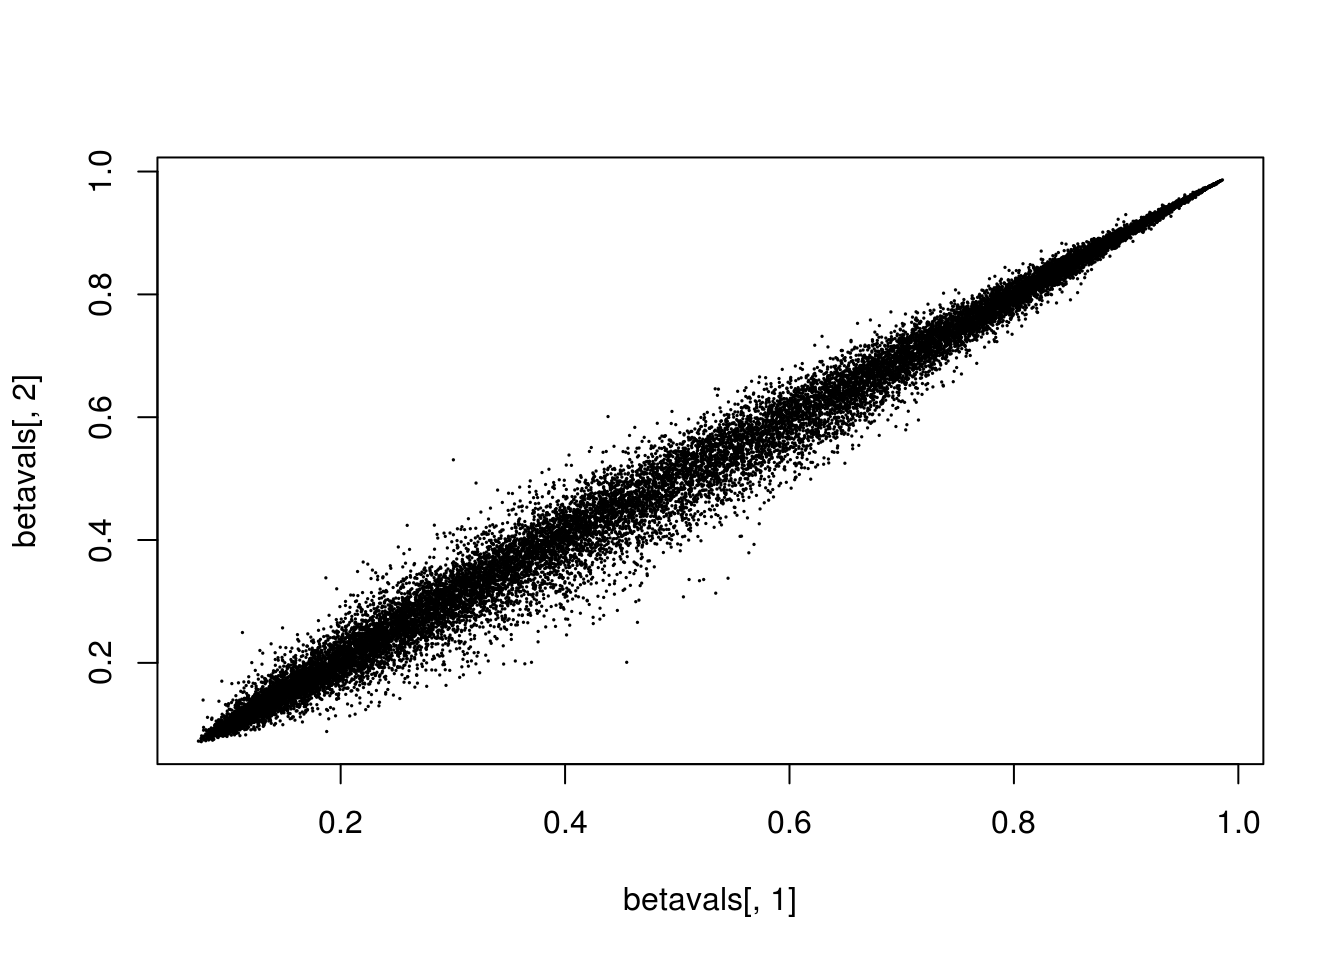
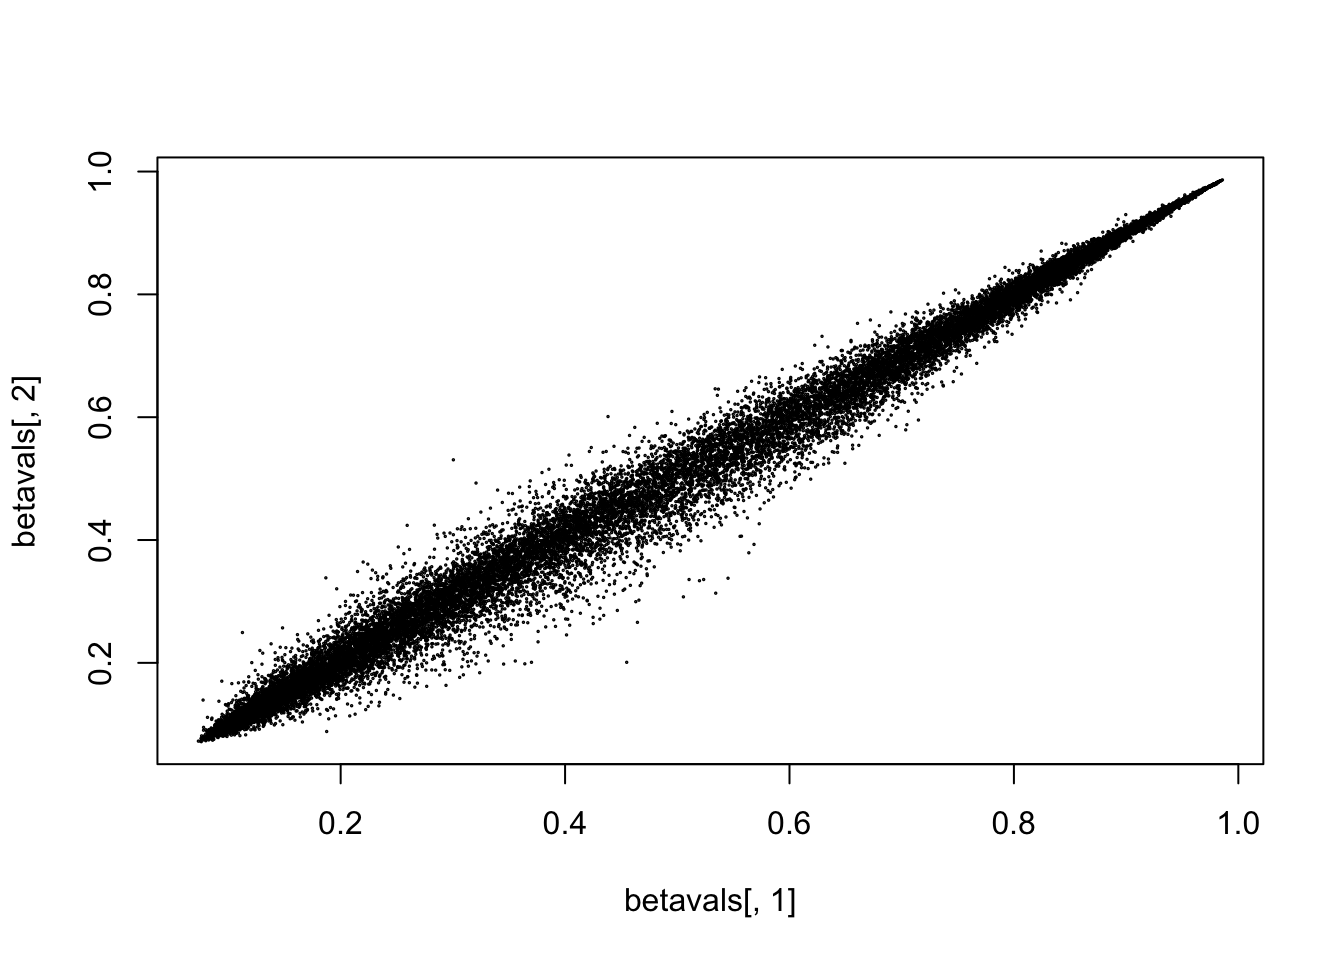
update starting kit

diff --git a/starting_kit.html b/starting_kit.html
@@ -10,7 +10,7 @@
 
 
 
-<meta name="date" content="2020-11-19" />
+<meta name="date" content="2020-11-25" />
 
 <title>Starting kit</title>
 
@@ -23,19 +23,8 @@
 <script src="site_libs/navigation-1.1/tabsets.js"></script>
 <link href="site_libs/highlightjs-9.12.0/textmate.css" rel="stylesheet" />
 <script src="site_libs/highlightjs-9.12.0/highlight.js"></script>
-<link href="site_libs/anchor-sections-1.0/anchor-sections.css" rel="stylesheet" />
-<script src="site_libs/anchor-sections-1.0/anchor-sections.js"></script>
 <link href="site_libs/font-awesome-5.1.0/css/all.css" rel="stylesheet" />
 <link href="site_libs/font-awesome-5.1.0/css/v4-shims.css" rel="stylesheet" />
-
-<style type="text/css">
-  code{white-space: pre-wrap;}
-  span.smallcaps{font-variant: small-caps;}
-  span.underline{text-decoration: underline;}
-  div.column{display: inline-block; vertical-align: top; width: 50%;}
-  div.hanging-indent{margin-left: 1.5em; text-indent: -1.5em;}
-  ul.task-list{list-style: none;}
-    </style>
 
 <style type="text/css">code{white-space: pre;}</style>
 <style type="text/css">
@@ -346,7 +335,7 @@ $(document).ready(function () {
 
 
 <h1 class="title toc-ignore">Starting kit</h1>
-<h4 class="date">2020-11-19</h4>
+<h4 class="date">2020-11-25</h4>
 
 </div>
 
@@ -359,7 +348,7 @@ $(document).ready(function () {
 <li><a href="#selection-of-13-reference-methods"><span class="toc-section-number">2.3</span> Selection of 13 reference methods</a></li>
 </ul></li>
 <li><a href="#evaluation-of-methods-performances"><span class="toc-section-number">3</span> Evaluation of methods performances</a><ul>
-<li><a href="#reference-datasets"><span class="toc-section-number">3.1</span> Reference datasets</a></li>
+<li><a href="#benchmark-datasets"><span class="toc-section-number">3.1</span> Benchmark datasets</a></li>
 <li><a href="#scoring-metrics"><span class="toc-section-number">3.2</span> Scoring metrics</a></li>
 <li><a href="#benchmark-leaderboard"><span class="toc-section-number">3.3</span> Benchmark leaderboard</a></li>
 </ul></li>
@@ -384,7 +373,7 @@ $(document).ready(function () {
 <p><img src="fig/tumor_heterogeneity.png" alt="Cancer heterogeneity illustration. Each tumor is a mix of different cell populations in various proportions." />.</p>
 <p>Each tumor is a mix of different cell populations in various proportions. Advanced microdissection techniques to isolate a population of interest from heterogeneous clinical tissue samples are not feasible in daily practice. An alternative is to rely on computational deconvolution methods that infer cell-type composition from mixed (=”bulk”) samples.</p>
 <p>This variable composition might be associated to difference in treatment response as well as distinct prognosis as shown by our team and others (Blum et al 2019, Nature Communication). It is therefore a high priority to describe as best as possible this “intra tumor” heterogeneity to better predict the more appropriate clinical care for each patient and go even further in personalized medicine.</p>
-<p><strong>The goal of the cometh web application</strong> is to quantify tumor heterogeneity within clinical cancer omic samples (how many cell types are present? In which proportion?).</p>
+<p><strong>The goal of the COMETH web application</strong> is to quantify tumor heterogeneity within clinical cancer omic samples (how many cell types are present? In which proportion?).</p>
 </div>
 <div id="computational-methods" class="section level1">
 <h1><span class="header-section-number">2</span> Computational methods</h1>
@@ -395,18 +384,18 @@ $(document).ready(function () {
 <p>In our context, a deconvolution method will enable to deconvolve a molecular measurement of a tumor sample into its different cellular components and to quantify their proportions.</p>
 <div id="the-different-types-of-deconvolution-methods" class="section level2">
 <h2><span class="header-section-number">2.1</span> The different types of deconvolution methods</h2>
-<p>Two types of deconvolution approaches have been proposed in the literature: either “reference-based” using profiles of known cell types and numbers of populations, or " reference-free" using, for example, non-negative matrix factorization (NMF) or independent component analysis (ICA). In addition, different types of molecular data can be extracted from biological material and used as a surrogate for in silico deconvolution. Most existing methods use either DNA methylation or gene expression data as a molecular indicator. The combination of different omics types to assess tumor heterogeneity has been poorly studied until now, which will be made possible by our innovative benchmarking platform.</p>
+<p>Two types of deconvolution approaches have been proposed in the literature: either &quot;reference-based&quot; using profiles of known cell types and numbers of populations, or &quot; reference-free&quot; using, for example, non-negative matrix factorization (NMF) or independent component analysis (ICA). In addition, different types of molecular data can be extracted from biological material and used as a surrogate for in silico deconvolution. Most existing methods use either DNA methylation or gene expression data as a molecular indicator. The combination of different omics types to assess tumor heterogeneity has been poorly studied until now, which will be made possible by our innovative benchmarking platform.</p>
 </div>
 <div id="criteria-used-for-the-selection" class="section level2">
 <h2><span class="header-section-number">2.2</span> Criteria used for the selection</h2>
-<p>We first based our selection on the outcome of our <a href="https://tinyurl.com/hadaca2019">HADACA data challenge</a>, gathering a consortium of more than thirty international <a href="https://cancer-heterogeneity.github.io/data_challenges_HADACAconsortium.html">experts</a> in the field. We selected the five best methods among all the ones collectively discovered and implemented during the challenge, that predictde the real cell proportions with the highest accuracy (i.e. lowest Mean Absolute Error between the estimate and the ground truth).</p>
-<p>These methods consist in different strategies :</p>
+<p>We first based our selection on the outcome of our <a href="https://tinyurl.com/hadaca2019">HADACA data challenge</a>, gathering a consortium of more than thirty international <a href="https://cancer-heterogeneity.github.io/data_challenges_HADACAconsortium.html">experts</a> in the field. We selected the five best methods among all the ones collectively discovered and implemented during the challenge, that predictde the real cell proportions with the highest accuracy (i.e. lowest Mean Absolute Error between the estimate and the ground truth).</p>
+<p>These methods consist in different strategies:</p>
 <ul>
 <li>Omics type : transcriptome or methylome</li>
 <li>Feature selections: variance based or ICA based</li>
 <li>Deconvolution algorithms: Edec, Medecom, snmf, ICA</li>
 </ul>
-<p>In addition, we conducted an extensive review of the literature to select reference deconvolution methods based on the following criteria :</p>
+<p>In addition, we conducted an extensive review of the literature to select reference deconvolution methods based on the following criteria:</p>
 <ul>
 <li>Associated publication: method published in a high-impact journal and highly cited (relative to the year of publication)</li>
 <li>Year of publication: the most recent methods have been prioritized</li>
@@ -421,49 +410,14 @@ $(document).ready(function () {
 </div>
 <div id="evaluation-of-methods-performances" class="section level1">
 <h1><span class="header-section-number">3</span> Evaluation of methods performances</h1>
-<div id="reference-datasets" class="section level2">
-<h2><span class="header-section-number">3.1</span> Reference datasets</h2>
-<p>Computational methods are evaluated on a set of reference benchmark datasets. We generated 8 benchmarks datasets enabling a comprehensive evaluation of the methods.</p>
+<div id="benchmark-datasets" class="section level2">
+<h2><span class="header-section-number">3.1</span> Benchmark datasets</h2>
+<p>Computational methods are evaluated on a set of reference benchmark datasets. We generated 8 benchmark datasets enabling a comprehensive evaluation of the methods.</p>
 <p><img src="fig/dataset.png" alt="Benchmark datasets" />.</p>
-<p>We assume a reference dataset is composed of :</p>
-<ul>
-<li>a data_test <strong>D</strong> matrix composed of omic value for <span class="math inline">\(N\)</span> samples, for <span class="math inline">\(M\)</span> given features (genes, methylation probes…).</li>
-<li>a data_solution <strong>A</strong> matrix composed of proportion value for <span class="math inline">\(N\)</span> samples, for <span class="math inline">\(K\)</span> cell types given features (genes, methylation probes…).</li>
-</ul>
-<p>For instance:</p>
-<pre class="r"><code>dim(test_data_met)</code></pre>
-<pre><code>## [1] 500   5</code></pre>
-<pre class="r"><code>dim(test_data_rna)</code></pre>
-<pre><code>## [1] 500   5</code></pre>
-<pre class="r"><code>head(test_data_met)</code></pre>
-<pre><code>##                 [,1]      [,2]      [,3]      [,4]      [,5]
-## cg00000029 0.2824851 0.4656137 0.5446347 0.2820870 0.3567818
-## cg00000109 0.7768669 0.8144932 0.8143146 0.6895472 0.7482526
-## cg00000155 0.7316993 0.9585858 0.9717631 0.8410465 0.9583800
-## cg00000158 0.7321741 0.8182967 0.8959911 0.8954138 0.8798266
-## cg00000165 0.5179173 0.6241434 0.3472937 0.3072159 0.5405272
-## cg00000221 0.7147090 0.7006120 0.6280123 0.9319660 0.4827374</code></pre>
-<pre class="r"><code>head(test_data_rna)</code></pre>
-<pre><code>##                [,1]       [,2]       [,3]        [,4]      [,5]
-## TSPAN6   4.53412964 4.64524344 4.46117771 4.693632277 4.7787183
-## TNMD     0.01756076 0.05738122 0.02154218 0.002280051 0.0692128
-## DPM1     5.01491459 5.39509861 5.12859560 5.131644901 5.3757923
-## SCYL3    4.27296046 3.64167946 3.77653212 3.856753286 3.9413723
-## C1orf112 3.47073829 3.10029072 2.92953187 2.655649054 3.4656401
-## FGR      1.22510287 1.94157661 2.31569565 1.395961242 0.5588283</code></pre>
-<pre class="r"><code>dim(test_solution)</code></pre>
-<pre><code>## [1] 5 5</code></pre>
-<pre class="r"><code>head(test_solution)</code></pre>
-<pre><code>##             [,1]        [,2]       [,3]        [,4]       [,5]
-## [1,] 0.079102722 0.077857899 0.14571941 0.464455778 0.07166962
-## [2,] 0.278741721 0.377048646 0.40214293 0.374365927 0.36659346
-## [3,] 0.120638364 0.214034841 0.23976354 0.005731404 0.04557118
-## [4,] 0.517661978 0.001631235 0.12301909 0.122623108 0.24905805
-## [5,] 0.003855216 0.329427378 0.08935503 0.032823782 0.26710770</code></pre>
 </div>
 <div id="scoring-metrics" class="section level2">
 <h2><span class="header-section-number">3.2</span> Scoring metrics</h2>
-<p>The discriminating metrics are computed on the A matrix. The rank of each method correspond to the mean rank of each method based on several metric evaluating the accuracy of the methods :</p>
+<p>The discriminating metrics are computed on the A matrix. The rank of each method corresponds to the mean rank of each method based on several metric evaluating the accuracy of the methods :</p>
 <ul>
 <li><strong>mean absolute error</strong> between the estimate and the groundtruth.</li>
 <li><strong>root mean square error</strong> between the estimate and the groundtruth.</li>
@@ -478,10 +432,10 @@ $(document).ready(function () {
 </div>
 <div id="clinician-datasets" class="section level1">
 <h1><span class="header-section-number">4</span> Clinician datasets</h1>
-<p>At this point, we assume you have a dataset on which you would like to perform tumor heterogeneity quantification. Before uploading to COMETH web app, you should first check your dataset format using the following guidelines.</p>
+<p>At this point, we assume you have a dataset on which you would like to perform tumor heterogeneity quantification. Before uploading it to the COMETH web app, you should first check your dataset format using the following guidelines.</p>
 <div id="dataset-format" class="section level2">
 <h2><span class="header-section-number">4.1</span> Dataset format</h2>
-<p>Your dataset (corresponding to matrix <span class="math inline">\(D\)</span> in our model) should be in .csv format, with ‘;’ as separators.</p>
+<p>Your dataset (corresponding to matrix <span class="math inline">\(D\)</span> in our model) should be in .csv format, with ';' as separators.</p>
 <pre class="r"><code>DT_file_name = &quot;data/dataset_clinician.csv&quot;
 DT_clinician = read.table(DT_file_name, sep =&quot;;&quot;, header=TRUE, row.names = 1)</code></pre>
 <p>You can test that your dataset is at the correct format by using the following R script</p>
@@ -511,21 +465,21 @@ geom_point() +
 stat_smooth(formula = y ~ x,
               method = lm, 
               level=0.9973)</code></pre>
-<p><img src="starting_kit_files/figure-html/unnamed-chunk-7-1.png" width="672" /></p>
+<p><img src="starting_kit_files/figure-html/unnamed-chunk-3-1.png" width="672" /></p>
 <div id="gene-expression-data" class="section level3">
 <h3><span class="header-section-number">4.2.1</span> Gene expression data</h3>
 <p>For gene expression data, we suggest the following normalization strategy:</p>
 <ul>
-<li>micro-array : rma function from “affy”package in R</li>
-<li>RNA-seq : DESeq, EdegR, transcripts per million (TPM)…</li>
+<li>micro-array : rma function from &quot;affy&quot;package in R</li>
+<li>RNA-seq : DESeq, EdegR, transcripts per million (TPM)...</li>
 </ul>
-<p>In case ofconfounding factor such as batch effect, we refer you to estimateSizeFactors and sizeFactors functions of the “DESEq2” package</p>
+<p>In case ofconfounding factor such as batch effect, we refer you to estimateSizeFactors and sizeFactors functions of the &quot;DESEq2&quot; package</p>
 </div>
 <div id="methylation-data" class="section level3">
 <h3><span class="header-section-number">4.2.2</span> Methylation data</h3>
 <p>For methylation array, we suggest the following normalization strategy:</p>
 <ul>
-<li>lumiMethyN function from Illumina “lumi”package in R</li>
+<li>lumiMethyN function from Illumina &quot;lumi&quot;package in R</li>
 </ul>
 </div>
 </div>
@@ -540,12 +494,12 @@ stat_smooth(formula = y ~ x,
 <p>You can test the transformation of your data using the following R script :</p>
 <pre class="r"><code>#plotting 2 first samples in native space
 plot(DT_raw[,1], DT_raw[,2], cex=.1)</code></pre>
-<p><img src="starting_kit_files/figure-html/unnamed-chunk-9-1.png" width="672" /></p>
+<p><img src="starting_kit_files/figure-html/unnamed-chunk-5-1.png" width="672" /></p>
 <pre class="r"><code># log transform 
 logcounts &lt;- logcounts &lt;- log2( DT_raw + 1 )
 #plotting 2 first samples in log space
 plot(logcounts[,1], logcounts[,2], cex=.1)</code></pre>
-<p><img src="starting_kit_files/figure-html/unnamed-chunk-9-2.png" width="672" /></p>
+<p><img src="starting_kit_files/figure-html/unnamed-chunk-5-2.png" width="672" /></p>
 <p>Working in Log space can improve your analysis.</p>
 <p>You can check with the following code :</p>
 <pre class="r"><code>pc &lt;- prcomp( t(DT_raw)  ) 
@@ -574,18 +528,18 @@ s$importance[,1:2]</code></pre>
 <div id="methylation-data-1" class="section level3">
 <h3><span class="header-section-number">4.3.2</span> Methylation data</h3>
 <p>Methylation data are usually beta-values or m-values.</p>
-<p>M-values can be obtains with beta2m function from Illumina “lumi” package in R.</p>
-<p>you can use beta2m and m2beta functions of Illumina “lumi” package</p>
+<p>M-values can be obtains with beta2m function from Illumina &quot;lumi&quot; package in R.</p>
+<p>you can use beta2m and m2beta functions of Illumina &quot;lumi&quot; package</p>
 <p>You can test the transformation of your data using the following R script</p>
 <pre class="r"><code>#plotting 2 first samples of m-values
 plot(DT_m[,1], DT_m[,2], cex=.1)</code></pre>
-<p><img src="starting_kit_files/figure-html/unnamed-chunk-12-1.png" width="672" /></p>
+<p><img src="starting_kit_files/figure-html/unnamed-chunk-8-1.png" width="672" /></p>
 <pre class="r"><code># m-values to beta-values
 betavals &lt;- 2^DT_m/(2^DT_m + 1)
 
 #plotting 2 first samples of beta-values
 plot(betavals[,1], betavals[,2], cex=.1)</code></pre>
-<p><img src="starting_kit_files/figure-html/unnamed-chunk-12-2.png" width="672" /></p>
+<p><img src="starting_kit_files/figure-html/unnamed-chunk-8-2.png" width="672" /></p>
 </div>
 </div>
 </div>
@@ -604,7 +558,7 @@ plot(betavals[,1], betavals[,2], cex=.1)</code></pre>
 
 // add bootstrap table styles to pandoc tables
 function bootstrapStylePandocTables() {
-  $('tr.odd').parent('tbody').parent('table').addClass('table table-condensed');
+  $('tr.header').parent('thead').parent('table').addClass('table table-condensed');
 }
 $(document).ready(function () {
   bootstrapStylePandocTables();
